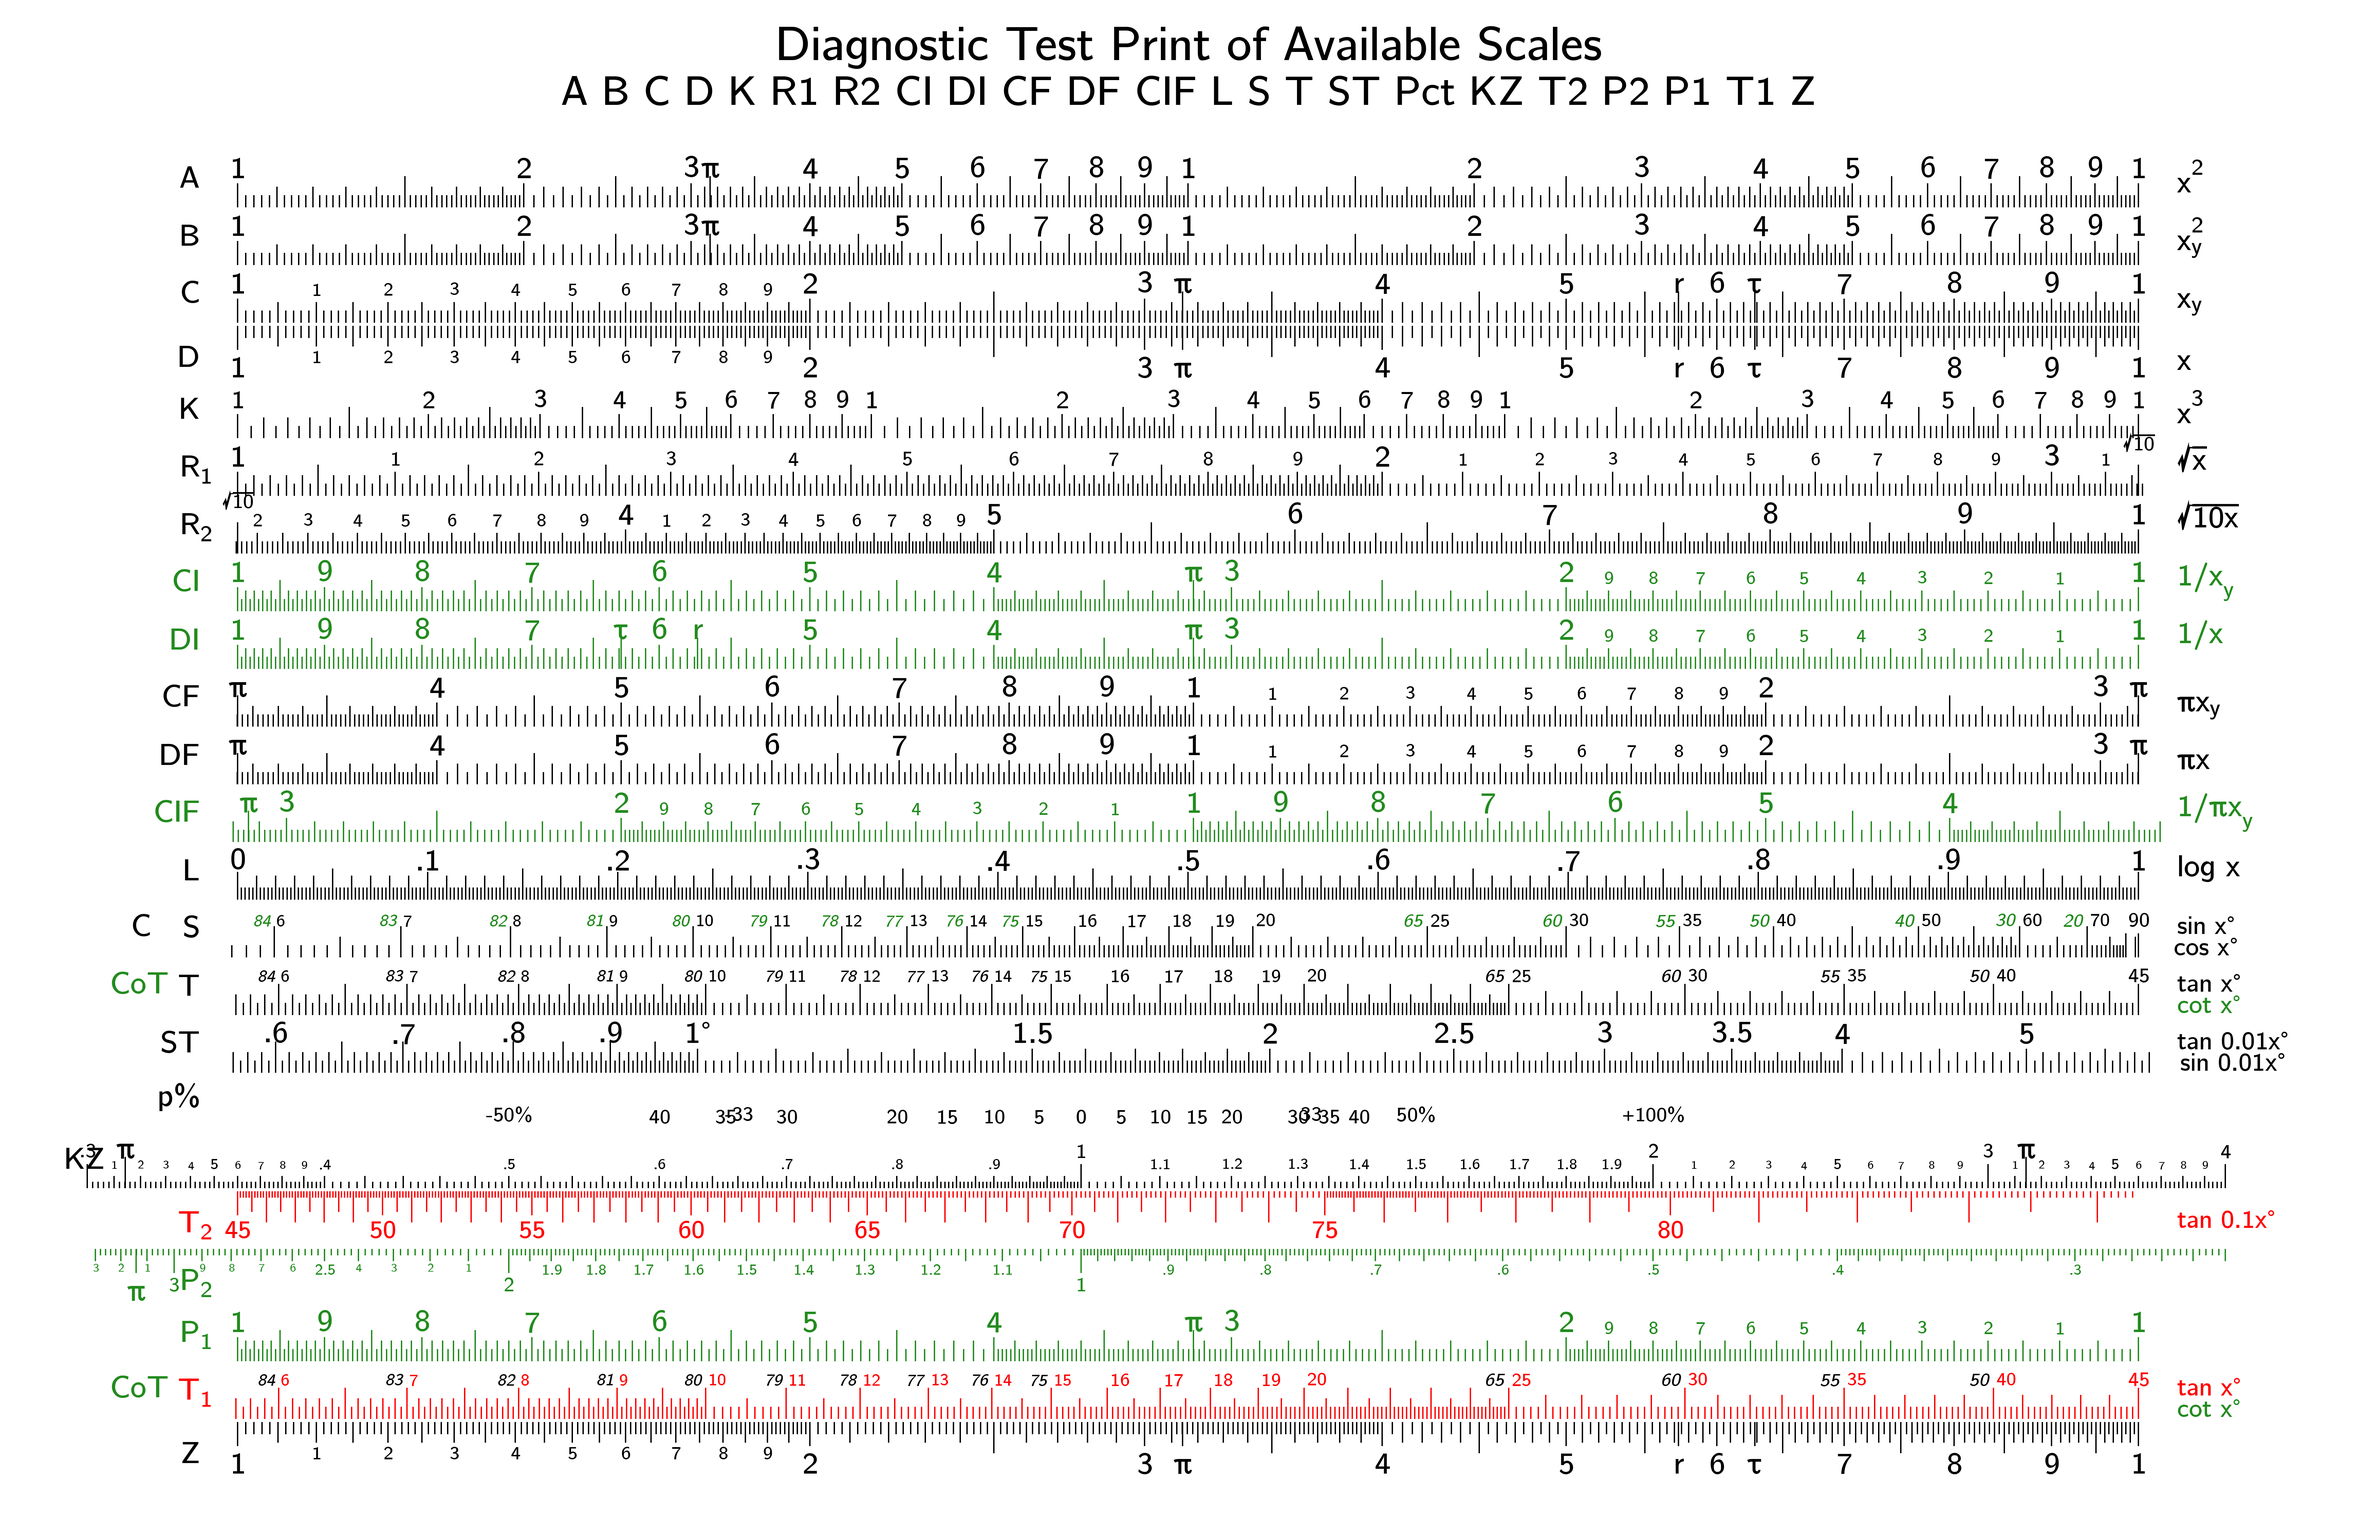
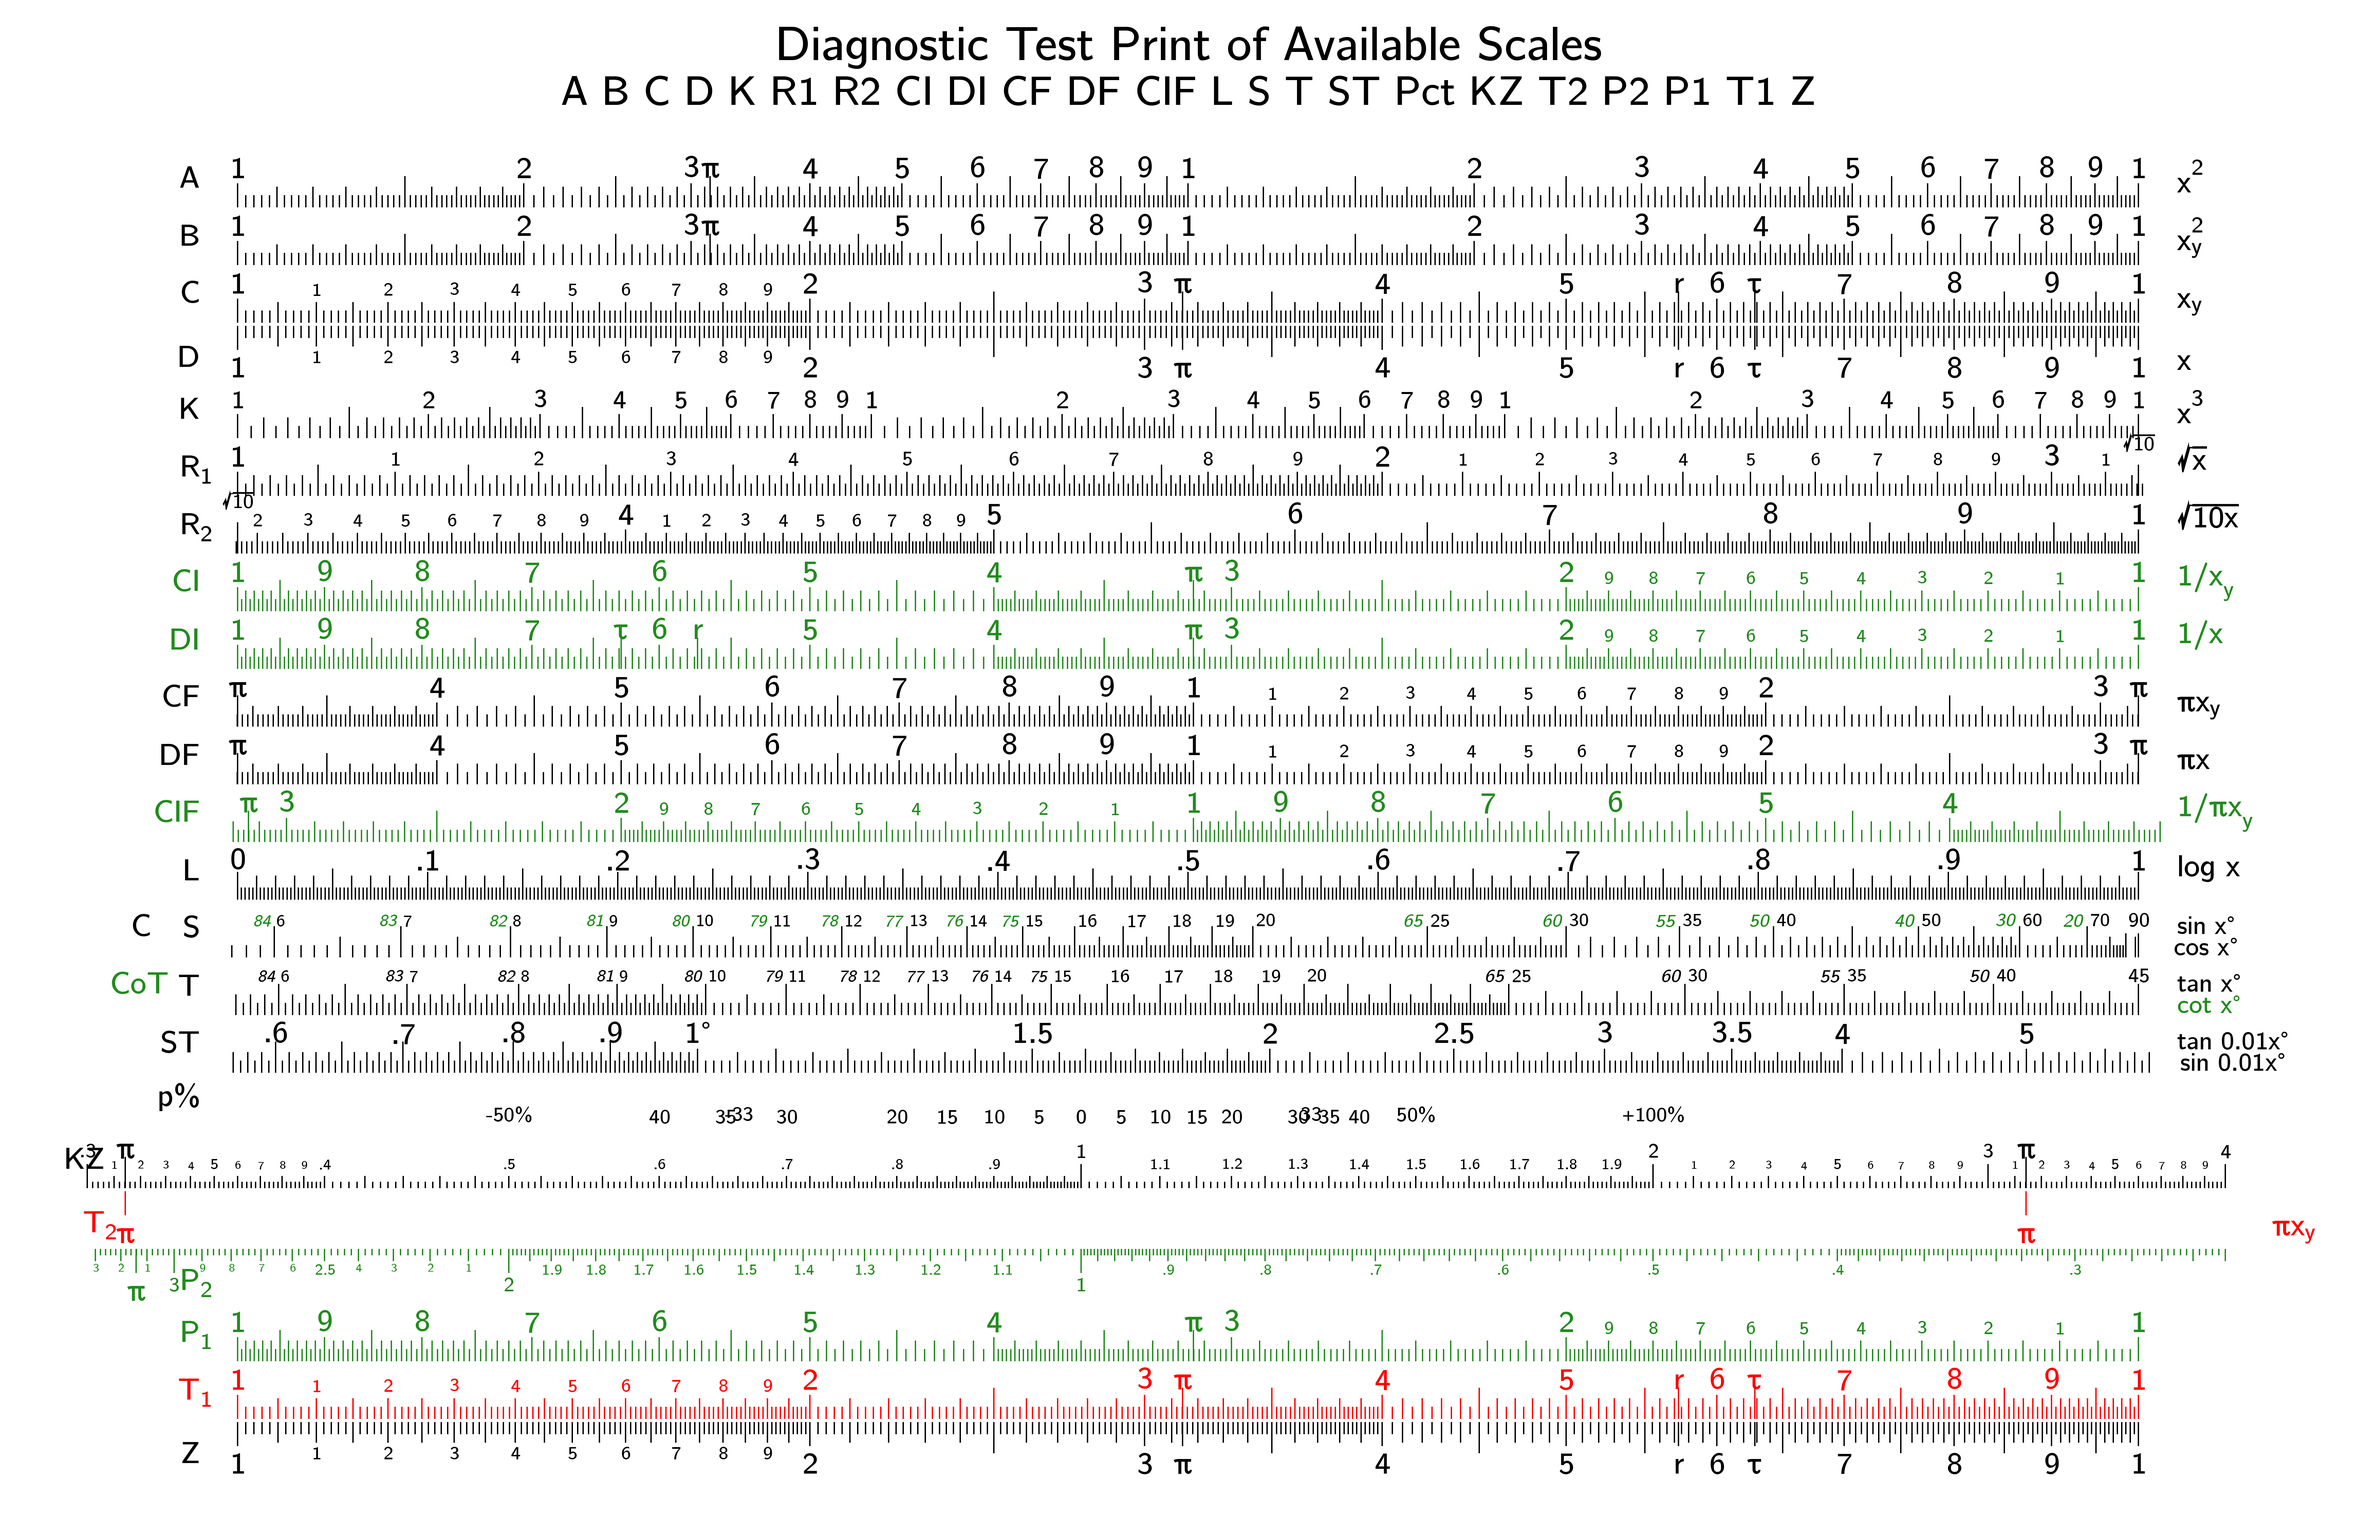
Extracted Aristo scales, using an improvement to scale_ns and new Style deserialization.

diff --git a/SlideRule.py b/SlideRule.py
@@ -136,6 +136,16 @@ class Style:
 
     @classmethod
     def from_dict(cls, style_def):
+        if 'font_family' in style_def:
+            style_def['font_family'] = getattr(Font, style_def['font_family'])
+        for key in ('fg', 'bg', 'decreasing_color', 'decimal_color'):
+            if key in style_def:
+                style_def[key] = getattr(Colors, style_def[key].upper())
+        if 'overrides' in style_def:
+            for k, v in style_def['overrides'].items():
+                for attr, value in v.items():
+                    if attr == 'color':
+                        style_def['overrides'][k][attr] = getattr(Colors, value.upper())
         return cls(**style_def)
 
     def fg_col(self, element: str, is_increasing=True):
@@ -1150,30 +1160,30 @@ class Scales:
 shift_360 = ScaleFNs.Inverse(3.6)
 
 
-class AristoCommerzScales:
-    """scales from Aristo 965 Commerz II: KZ, %, Z/ZZ1/ZZ2/ZZ3 compound interest"""
-    Z = replace(Scales.D, left_sym='Z', right_sym='', opp_key='T1', dividers=[2, 4])
-    T1 = replace(Z, left_sym='T₁', key='T1', opp_key='Z', on_slide=True)
-    P1 = replace(Scales.CI, left_sym='P₁', right_sym='', key='P1', on_slide=True, dividers=[2, 4])
-    KZ = replace(Scales.CF, left_sym='KZ', right_sym='', key='KZ', shift=shift_360,
-                 ex_start_value=0.3, ex_end_value=4, dividers=[0.4, 1, 2])
-    T2 = replace(KZ, left_sym='T₂', key='T2', on_slide=True)
-    P2 = replace(Scales.CIF, left_sym='P₂', right_sym='', key='P2', shift=shift_360 - 1, on_slide=True,
-                 ex_start_value=0.25, ex_end_value=3.3, dividers=[0.4, 1, 2])
-    Pct = Scale(left_sym='p%', right_sym='', on_slide=True, shift=shift_360,
-                scaler=ScaleFN(lambda x: gen_base((x + HUNDRED) / HUNDRED),
-                               lambda p: pos_base(p) * HUNDRED - HUNDRED),
-                dividers=[0], ex_start_value=-50, ex_end_value=100)
-    # meta-scale showing % with 100% over 1/unity
-    # special marks being 0,5,10,15,20,25,30,33⅓,40,50,75,100 in both directions
-    Libra = replace(Scales.L, left_sym='£', right_sym='', key='Libra')
-
-
-SCALE_NAMES = set(keys_of(Scales) + keys_of(AristoCommerzScales))
+custom_scale_sets = {
+    'AristoCommerz': {  # scales from Aristo 965 Commerz II: KZ, %, Z/ZZ1/ZZ2/ZZ3 compound interest
+        'Z': replace(Scales.D, left_sym='Z', right_sym='', opp_key='T1', dividers=[2, 4]),
+        'T1': replace(Scales.D, left_sym='T₁', right_sym='', key='T1', opp_key='Z', on_slide=True),
+        'P1': replace(Scales.CI, left_sym='P₁', right_sym='', key='P1', on_slide=True, dividers=[2, 4]),
+        'KZ': replace(Scales.CF, left_sym='KZ', right_sym='', key='KZ', shift=shift_360,
+                      ex_start_value=0.3, ex_end_value=4, dividers=[0.4, 1, 2]),
+        'T2': replace(Scales.CF, left_sym='T₂', key='T2', shift=shift_360, on_slide=True,
+                      ex_start_value=0.3, ex_end_value=4, dividers=[0.4, 1, 2]),
+        'P2': replace(Scales.CIF, left_sym='P₂', right_sym='', key='P2', shift=shift_360 - 1, on_slide=True,
+                      ex_start_value=0.25, ex_end_value=3.3, dividers=[0.4, 1, 2]),
+        'Pct': Scale(left_sym='p%', right_sym='', key='Pct', on_slide=True, shift=shift_360,
+                     scaler=ScaleFN(lambda x: gen_base((x + HUNDRED) / HUNDRED),
+                                    lambda p: pos_base(p) * HUNDRED - HUNDRED),
+                     dividers=[0], ex_start_value=-50, ex_end_value=100),
+        # meta-scale showing % with 100% over 1/unity
+        # special marks being 0,5,10,15,20,25,30,33⅓,40,50,75,100 in both directions
+        'Libra': replace(Scales.L, left_sym='£', right_sym='', key='Libra'),
+    }
+}
 
 
 class Layout:
-    def __init__(self, front: str, rear: str = None, scale_ns: object = Scales, align_overrides=None):
+    def __init__(self, front: str, rear: str = None, scale_ns: dict = None, align_overrides=None):
         if align_overrides is None:
             align_overrides = {}
         if not rear and '\n' in front:
@@ -1182,7 +1192,7 @@ class Layout:
             Side.FRONT: self.parse_side_layout(front),
             Side.REAR: self.parse_side_layout(rear)
         }
-        self.scale_ns: object = scale_ns
+        self.scale_ns: dict[str, Scale] = scale_ns or {}
         self.check_scales()
         self.scale_aligns: dict[Side, dict[str, Align]] = {
             Side.FRONT: align_overrides.get(Side.FRONT, {}), Side.REAR: align_overrides.get(Side.REAR, {})}
@@ -1199,6 +1209,8 @@ class Layout:
                 for sc_key, al in v.items():
                     result[Side[k.upper()]][sc_key] = Align[al.upper()]
             layout_def['align_overrides'] = result
+        if 'scale_ns' in layout_def:
+            layout_def['scale_ns'] = custom_scale_sets[layout_def['scale_ns']]
         return cls(**layout_def)
 
     @classmethod
@@ -1243,12 +1255,14 @@ class Layout:
 
     def check_scales(self):
         for scale_name in self.sc_keys_in_order():
-            if not (hasattr(self.scale_ns, scale_name) or hasattr(Rulers, scale_name)):
+            if not (hasattr(Scales, scale_name) or hasattr(Rulers, scale_name) or scale_name in self.scale_ns):
                 raise ValueError(f'Unrecognized front scale name: {scale_name}')
 
+    def scale_named(self, sc_name: str):
+        return self.scale_ns.get(sc_name, getattr(Scales, sc_name, getattr(Rulers, sc_name, None)))
+
     def scales_at(self, side: Side, part: RulePart) -> list[Scale]:
-        return [getattr(self.scale_ns, sc_name, None) or getattr(Rulers, sc_name, None)
-                for sc_name in self.sc_keys[side][part] or []]
+        return [self.scale_named(sc_name) for sc_name in self.sc_keys[side][part] or []]
 
     def infer_aligns(self):
         """Fill scale alignments per the layout into the overrides."""
@@ -1393,33 +1407,8 @@ class Models:
     Ruler = replace(MannheimOriginal, layout=Layout('IN_DEC [IN_BIN] CM'))
     MannheimWithRuler = replace(MannheimOriginal, layout=Layout('A/B C/D', 'IN [] CM'))
 
-    Aristo868 = Model('Aristo', '', '868',
-                      Geometry((8000, 1860),
-                               (100, 100),
-                               (Geometry.SL, 120),
-                               Geometry.DEFAULT_TICK_WH,
-                               590,
-                               top_margin=0),
-                      Layout(
-                          'ST T1 T2 DF/CF CIF CI C/D P S',
-                          'LL01 LL02 LL03 A/B L K C/D LL3 LL2 LL1'
-                      ),
-                      Style(font_family=Font.CMUBright))
-
-    Aristo965 = Model('Aristo', 'Commerz II', '965',
-                      Geometry((8000, 1200),  # 30cm (8000px) x 5cm (1333px)
-                               (100, 100),
-                               (6666, 80),  # 25cm (6666.7px) x 3.5mm (93px)
-                               Geometry.DEFAULT_TICK_WH,
-                               480  # 1.7cm (450px)
-                               ),
-                      Layout('Pct KZ [T2 P2 P1 T1] Z', '', scale_ns=AristoCommerzScales,
-                             align_overrides={Side.FRONT: {'P2': Align.UPPER}}),
-                      Style(decreasing_color=Colors.SYM_GREEN, font_family=Font.CMUBright,
-                            overrides={
-                                'T1': {'color': Colors.RED},
-                                'T2': {'color': Colors.RED}
-                            }))
+    Aristo868 = Model.from_toml_file('examples/Model-Aristo868.toml')
+    Aristo965 = Model.from_toml_file('examples/Model-Aristo965.toml')
 
     PickettN515T = Model('Pickett', '', 'N-515-T',
                          Geometry((8000, 2000),
@@ -1703,7 +1692,7 @@ def gen_scale(r: Renderer, y_off: int, sc: Scale, al=None, overhang=None, side: 
         for x in chain((x / 10 for x in range(6, 10)), (x + 0.5 for x in range(1, 4)), range(2, 6)):
             r.draw_numeral(x, y_off, sym_col, scale_h, sc.pos_of(x, geom), th_med, f_lbl, al)
 
-    elif sc == AristoCommerzScales.Pct:
+    elif sc == custom_scale_sets['AristoCommerz']['Pct']:
         if DEBUG:
             sc.grad_pat_default(r, y_off, al)
         for pct_value in (0, 5, 10, 15, 20, 35, 30, 40):
@@ -2016,7 +2005,7 @@ def render_diagnostic_mode(model: Model, all_scales=False):
     r.draw_sym_al(title, 50, style.fg, 0, title_x, 0, style.font_for(FontSize.TITLE), upper)
     r.draw_sym_al(' '.join(scale_names), 200, style.fg, 0, title_x, 0, style.font_for(FontSize.SUBTITLE), upper)
     for n, sc_name in enumerate(scale_names):
-        sc = getattr(Scales, sc_name, getattr(Rulers, sc_name, getattr(model.layout.scale_ns, sc_name, None)))
+        sc = model.layout.scale_named(sc_name)
         assert sc, f'Scale not found: {sc_name}'
         al = Align.LOWER if is_demo else layout.scale_al(sc, Side.FRONT, RulePart.SLIDE)
         y_off = k + (n + 1) * sh_with_margins
